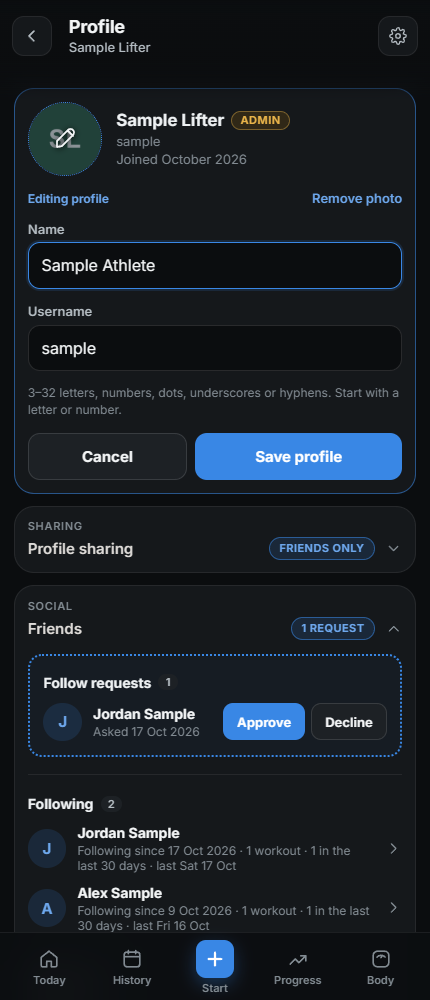
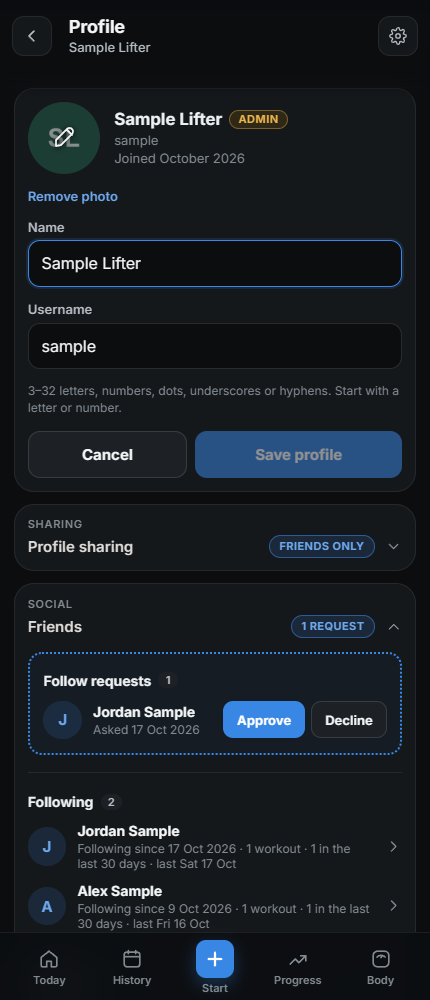
Simplify profile photo editing and preview shared workout images

diff --git a/frontend/src/ProfileIdentity.tsx b/frontend/src/ProfileIdentity.tsx
@@ -178,23 +178,20 @@ export function ProfileIdentity({ user, onSaved }: { user: User; onSaved: (user:
               }
             }}
           />
-          <div className="profile-edit-heading">
-            <span className="profile-edit-label">Editing profile</span>
-            {photoUrl && (
-              <button
-                type="button"
-                className="text-link"
-                disabled={saving}
-                onClick={() => {
-                  setPhoto(null);
-                  setRemovePhoto(Boolean(user.profile_photo_url));
-                  setError(null);
-                }}
-              >
-                Remove photo
-              </button>
-            )}
-          </div>
+          {photoUrl && (
+            <button
+              type="button"
+              className="text-link profile-photo-remove"
+              disabled={saving}
+              onClick={() => {
+                setPhoto(null);
+                setRemovePhoto(Boolean(user.profile_photo_url));
+                setError(null);
+              }}
+            >
+              Remove photo
+            </button>
+          )}
           <form className="profile-form" noValidate onSubmit={(event) => void save(event)}>
             <label className="auth-field" htmlFor={`${id}-name`}>
               <span>Name</span>

diff --git a/frontend/src/auth.css b/frontend/src/auth.css
@@ -714,10 +714,6 @@
   position: relative;
 }
 
-.profile-identity.is-editing {
-  border-color: rgb(57 135 229 / 55%);
-}
-
 .profile-edit-button {
   flex-shrink: 0;
   display: inline-flex;
@@ -744,10 +740,10 @@
 .profile-photo-edit {
   position: relative;
   flex-shrink: 0;
-  border: 1px dotted var(--p-accent);
+  border: 0;
   border-radius: 50%;
   padding: 0;
-  background: var(--p-surface-2);
+  background: transparent;
   color: var(--p-ink);
 }
 
@@ -764,17 +760,8 @@
   filter: drop-shadow(0 1px 3px #000);
 }
 
-.profile-edit-heading {
-  display: flex;
-  align-items: center;
-  justify-content: space-between;
-  gap: 0.75rem;
-}
-
-.profile-edit-label {
-  color: var(--p-accent-text);
-  font-size: 0.75rem;
-  font-weight: 650;
+.profile-photo-remove {
+  justify-self: start;
 }
 
 .profile-identity > .profile-form {

diff --git a/docs/RELEASE-NOTES.md b/docs/RELEASE-NOTES.md
@@ -72,7 +72,9 @@
   Pending requests are highlighted with a blue dotted outline.
 - Profile starts in viewing mode with an **Edit profile** button. Editing reveals the name
   and username fields plus a pencil over a slightly dimmed avatar. Tap it to choose a photo;
-  preview or remove the photo, then **Save profile** or **Cancel**. Drafts wait for Save.
+  **Remove photo** sits below the avatar on the left. The card keeps its normal border and
+  the avatar has no blue outline. Preview or remove the photo, then **Save profile** or
+  **Cancel**. Drafts wait for Save.
 
 The deployed 0.6.5 announcement is preserved in Earlier versions.
 
@@ -103,7 +105,14 @@ highlighted request and relationship dates in view; sharing and Friends still st
 
 <img src="screenshots/releases/0.6.6-profile-edit.png" alt="Profile editing with a pencil over the dimmed avatar, name and username fields, and Cancel and Save profile buttons." width="390">
 
-Editing mode previews a draft photo and name before Save profile. Cancel discards the drafts.
+Editing mode keeps Remove photo on the left and has no blue outline on the card or avatar.
+Photo and name drafts wait for Save profile; Cancel discards them.
+
+<img src="screenshots/releases/0.6.6-shared-workout-images.png" alt="Another member viewing Alex's shared profile with an expanded workout and example images pinned to Back Extension Machine and Back Squat." width="720">
+
+Example of a member viewing someone else's workout with pinned exercise images. The owner
+enabled **Machine photos** under **What you share**. These synthetic sample images illustrate
+the existing sharing behavior; photos remain hidden when that option is off.
 
 <img src="screenshots/releases/0.6.6-shared-profile-dates.png" alt="Alex's shared profile showing Following since 9 Oct 2026, Follows you since 6 Oct 2026 and Joined October 2026." width="390">
 
